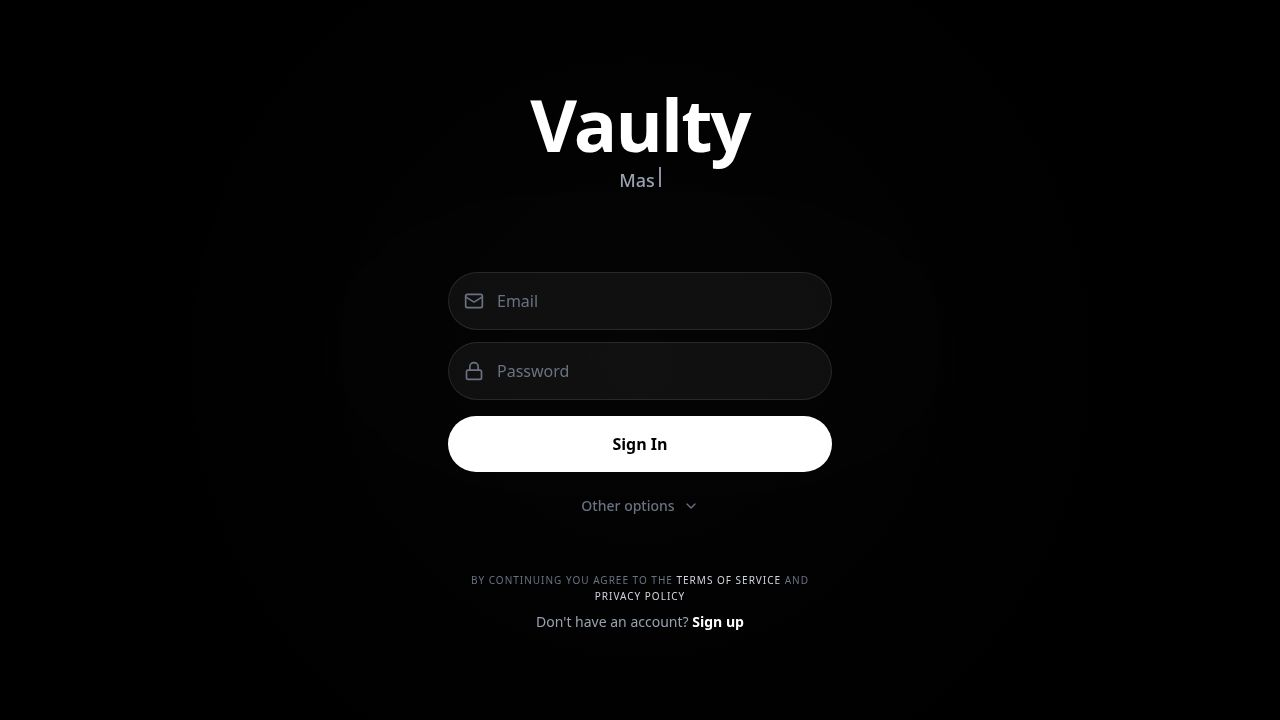
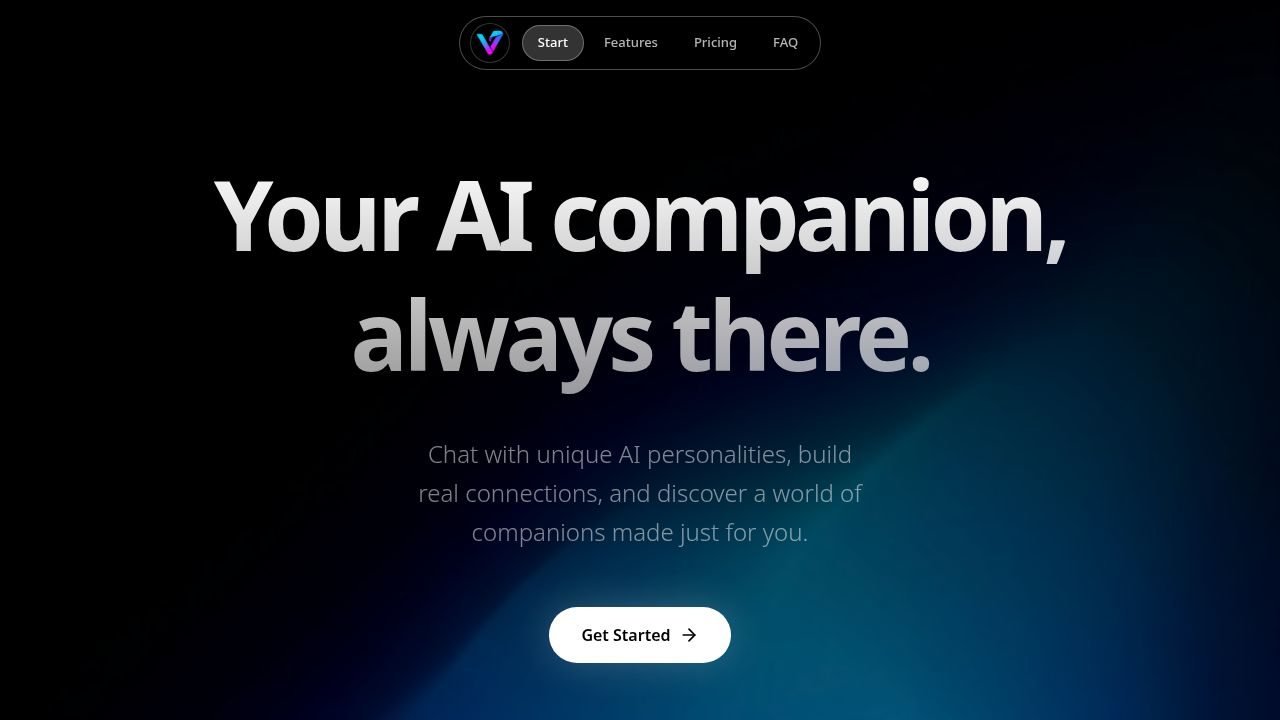
Update bottom navigation to match design and improve functionality
Modify `BottomNav` component in `artifacts/vaulty/src/components/bottom-nav.tsx` to align with design specifications, including visual appearance and active state handling. Reverts temporary testing modifications and optimizes unread count calculation.

Replit-Commit-Author: Agent
Replit-Commit-Session-Id: a13fa387-accd-4a0e-9d58-872bcc452926
Replit-Commit-Checkpoint-Type: full_checkpoint
Replit-Commit-Event-Id: 97b5bc2d-cc4e-43b1-8dbc-7ea21598766e
Replit-Commit-Screenshot-Url: https://storage.googleapis.com/screenshot-production-us-central1/109c9988-ce93-4a7c-ae48-cd2b3726c8ef/a13fa387-accd-4a0e-9d58-872bcc452926/qTRPI5u
Replit-Helium-Checkpoint-Created: true

diff --git a/artifacts/vaulty/src/components/bottom-nav.tsx b/artifacts/vaulty/src/components/bottom-nav.tsx
@@ -1,6 +1,5 @@
 import { Link, useLocation } from "wouter";
 import { Home, MessageSquare, PlusCircle, Search, Zap } from "lucide-react";
-import { cn } from "@/lib/utils";
 import { useEffect, useState, useMemo } from "react";
 import { useAuth } from "@/contexts/auth-context";
 import { motion, AnimatePresence } from "framer-motion";
@@ -10,22 +9,17 @@ import { isSuperAdmin } from "@/lib/admins";
 
 export function BottomNav() {
   const [location] = useLocation();
-  const { user, userData } = useAuth();
+  const { user } = useAuth();
   const [unreadCount, setUnreadCount] = useState(0);
-
-  const isSuper = user ? isSuperAdmin(user.email) : false;
 
   useEffect(() => {
     if (!user) { setUnreadCount(0); return; }
-
     const chatsQuery = query(
       collection(db, "chats"),
       where("participants", "array-contains", user.uid)
     );
-
     const chatsUnsubscribe = onSnapshot(chatsQuery, (chatsSnapshot) => {
       const chatUnreads: Record<string, number> = {};
-
       const unsubscribes = chatsSnapshot.docs.map(chatDoc => {
         const messagesQuery = query(
           collection(db, "chats", chatDoc.id, "messages"),
@@ -36,14 +30,11 @@ export function BottomNav() {
             msgDoc => msgDoc.data().senderId !== user.uid
           ).length;
           chatUnreads[chatDoc.id] = count;
-          const total = Object.values(chatUnreads).reduce((sum, c) => sum + c, 0);
-          setUnreadCount(total);
+          setUnreadCount(Object.values(chatUnreads).reduce((s, c) => s + c, 0));
         });
       });
-
-      return () => unsubscribes.forEach(unsub => unsub());
-    }, (error) => console.error("Error in chats listener:", error));
-
+      return () => unsubscribes.forEach(u => u());
+    });
     return () => chatsUnsubscribe();
   }, [user]);
 
@@ -56,21 +47,13 @@ export function BottomNav() {
   ], []);
 
   const shouldHide =
-    location === "/login" ||
-    location === "/register" ||
-    location === "/" ||
-    location === "/ai" ||
-    location.startsWith("/create-companion") ||
-    location.startsWith("/companion/") ||
-    location.startsWith("/messages/") ||
-    location === "/tos" ||
-    location.startsWith("/demo-trading/") ||
-    location.startsWith("/chat/private/") ||
-    location.startsWith("/course/") ||
-    location.startsWith("/coin/") ||
-    location.startsWith("/wallet") ||
-    location.startsWith("/user/") ||
-    location === "/create-post" ||
+    location === "/login" || location === "/register" || location === "/" ||
+    location === "/ai" || location.startsWith("/create-companion") ||
+    location.startsWith("/companion/") || location.startsWith("/messages/") ||
+    location === "/tos" || location.startsWith("/demo-trading/") ||
+    location.startsWith("/chat/private/") || location.startsWith("/course/") ||
+    location.startsWith("/coin/") || location.startsWith("/wallet") ||
+    location.startsWith("/user/") || location === "/create-post" ||
     location === "/create-listing";
 
   if (shouldHide) return null;
@@ -82,135 +65,171 @@ export function BottomNav() {
       transition={{ type: "spring", stiffness: 300, damping: 30 }}
       className="fixed bottom-6 left-1/2 -translate-x-1/2 z-50"
     >
-      {/* Outer glow */}
-      <div className="absolute -inset-2 rounded-full blur-2xl bg-black/30 pointer-events-none" />
+      {/* Outer wrapper — overflow visible so active bubble pokes above */}
+      <div style={{ position: "relative", paddingTop: 28 }}>
 
-      {/* Dark glass pill */}
-      <div
-        className="relative flex items-end gap-1.5 px-3 pt-5 pb-2 rounded-full"
-        style={{
-          background: "rgba(18,18,20,0.82)",
-          backdropFilter: "blur(28px)",
-          WebkitBackdropFilter: "blur(28px)",
-          border: "1px solid rgba(255,255,255,0.10)",
-          boxShadow: "0 8px 40px rgba(0,0,0,0.7), inset 0 1px 0 rgba(255,255,255,0.08)",
-        }}
-      >
-        {items.map((item) => {
-          let isActive = false;
-          if (item.href === "/home") {
-            isActive = location === "/home";
-          } else if (item.href === "/messages") {
-            isActive = location.startsWith("/messages");
-          } else {
-            isActive = location.startsWith(item.href);
-          }
+        {/* Dark glass pill */}
+        <div
+          style={{
+            display: "flex",
+            alignItems: "center",
+            gap: 6,
+            padding: "8px 10px",
+            borderRadius: 60,
+            background: "rgba(14,14,16,0.88)",
+            backdropFilter: "blur(30px)",
+            WebkitBackdropFilter: "blur(30px)",
+            border: "1px solid rgba(255,255,255,0.09)",
+            boxShadow: "0 8px 40px rgba(0,0,0,0.75), inset 0 1px 0 rgba(255,255,255,0.07)",
+          }}
+        >
+          {items.map((item) => {
+            let isActive = false;
+            if (item.href === "/home") isActive = location === "/home";
+            else if (item.href === "/messages") isActive = location.startsWith("/messages");
+            else isActive = location.startsWith(item.href);
 
-          return (
-            <Link key={item.href} href={item.href}>
-              <motion.div
-                whileTap={{ scale: 0.9 }}
-                transition={{ type: "spring", stiffness: 500, damping: 20 }}
-                className="relative flex flex-col items-center cursor-pointer"
-              >
-                {/* Item capsule */}
-                <div
-                  className="relative flex flex-col items-center justify-end"
-                  style={{ width: 64, minHeight: 52 }}
+            return (
+              <Link key={item.href} href={item.href}>
+                <motion.div
+                  whileTap={{ scale: 0.88 }}
+                  style={{ position: "relative", cursor: "pointer" }}
                 >
-                  <AnimatePresence mode="wait">
-                    {isActive ? (
-                      /* Active: large circle protruding above the bar */
+                  {/* Active: big circle that rises above the pill */}
+                  <AnimatePresence>
+                    {isActive && (
                       <motion.div
-                        key="active"
-                        initial={{ scale: 0.6, opacity: 0, y: 8 }}
+                        key="bubble"
+                        layoutId="nav-active-bubble"
+                        initial={{ scale: 0.5, opacity: 0, y: 20 }}
                         animate={{ scale: 1, opacity: 1, y: 0 }}
-                        exit={{ scale: 0.6, opacity: 0, y: 8 }}
-                        transition={{ type: "spring", stiffness: 380, damping: 26 }}
-                        className="absolute left-1/2 -translate-x-1/2"
-                        style={{ bottom: 18 }}
-                      >
-                        {/* Colorful metallic ring (conic gradient) */}
-                        <div
-                          style={{
-                            width: 64,
-                            height: 64,
-                            borderRadius: "50%",
-                            padding: 3,
-                            background: "conic-gradient(from 0deg, #a8ff3e, #00e0ff, #b400ff, #ff3a6e, #ff9900, #a8ff3e)",
-                            boxShadow: "0 0 18px rgba(168,255,62,0.45), 0 4px 24px rgba(0,0,0,0.5)",
-                          }}
-                        >
-                          {/* Inner green circle */}
-                          <div
-                            className="w-full h-full rounded-full flex items-center justify-center"
-                            style={{
-                              background: "linear-gradient(145deg, #c8ff44, #8ae600)",
-                              boxShadow: "inset 0 2px 6px rgba(255,255,255,0.35), inset 0 -2px 4px rgba(0,0,0,0.2)",
-                            }}
-                          >
-                            <item.icon
-                              className="text-black"
-                              style={{ width: 26, height: 26, strokeWidth: 2.2 }}
-                            />
-                          </div>
-                        </div>
-                      </motion.div>
-                    ) : (
-                      /* Inactive: small icon in a dark capsule */
-                      <motion.div
-                        key="inactive"
-                        initial={{ opacity: 0 }}
-                        animate={{ opacity: 1 }}
-                        exit={{ opacity: 0 }}
-                        transition={{ duration: 0.15 }}
-                        className="flex flex-col items-center justify-center rounded-full"
+                        exit={{ scale: 0.5, opacity: 0, y: 20 }}
+                        transition={{ type: "spring", stiffness: 400, damping: 28 }}
                         style={{
-                          width: 60,
-                          height: 44,
-                          background: "rgba(255,255,255,0.07)",
-                          border: "1px solid rgba(255,255,255,0.09)",
-                          marginBottom: 2,
+                          position: "absolute",
+                          left: "50%",
+                          transform: "translateX(-50%)",
+                          bottom: "calc(100% + 4px)",
+                          width: 62,
+                          height: 62,
+                          borderRadius: "50%",
+                          padding: 3,
+                          background:
+                            "conic-gradient(from 180deg, #b5ff4d, #00e5ff, #c200ff, #ff3366, #ff9500, #b5ff4d)",
+                          boxShadow:
+                            "0 0 20px rgba(181,255,77,0.4), 0 6px 30px rgba(0,0,0,0.6)",
+                          zIndex: 10,
                         }}
                       >
-                        <item.icon
-                          className="text-white/70"
-                          style={{ width: 20, height: 20, strokeWidth: 1.8 }}
-                        />
+                        {/* Lime green inner circle */}
+                        <div
+                          style={{
+                            width: "100%",
+                            height: "100%",
+                            borderRadius: "50%",
+                            background:
+                              "linear-gradient(145deg, #ccff44 0%, #96e600 100%)",
+                            boxShadow:
+                              "inset 0 2px 8px rgba(255,255,255,0.4), inset 0 -2px 6px rgba(0,0,0,0.25)",
+                            display: "flex",
+                            alignItems: "center",
+                            justifyContent: "center",
+                          }}
+                        >
+                          <item.icon
+                            style={{
+                              width: 24,
+                              height: 24,
+                              color: "#0a1200",
+                              strokeWidth: 2.2,
+                            }}
+                          />
+                        </div>
                       </motion.div>
                     )}
                   </AnimatePresence>
 
-                  {/* Spacer so active icon has room above */}
-                  {isActive && <div style={{ height: 50 }} />}
-
-                  {/* Label */}
-                  <span
-                    className="text-[10px] font-semibold tracking-wide mt-0.5 relative z-10"
+                  {/* Capsule (always rendered — the pill shape for each item) */}
+                  <div
                     style={{
-                      color: isActive ? "#c8ff44" : "rgba(255,255,255,0.55)",
-                      textShadow: isActive ? "0 0 10px rgba(168,255,62,0.6)" : "none",
-                      lineHeight: 1,
+                      width: 64,
+                      height: 52,
+                      borderRadius: 26,
+                      background: isActive
+                        ? "rgba(255,255,255,0.04)"
+                        : "rgba(255,255,255,0.07)",
+                      border: "1px solid rgba(255,255,255,0.08)",
+                      display: "flex",
+                      flexDirection: "column",
+                      alignItems: "center",
+                      justifyContent: "flex-end",
+                      paddingBottom: 7,
+                      gap: 3,
+                      position: "relative",
                     }}
                   >
-                    {item.label}
-                  </span>
+                    {/* Icon — hidden on active (replaced by floating bubble above) */}
+                    {!isActive && (
+                      <item.icon
+                        style={{
+                          width: 20,
+                          height: 20,
+                          color: "rgba(255,255,255,0.55)",
+                          strokeWidth: 1.8,
+                        }}
+                      />
+                    )}
+                    {isActive && <div style={{ height: 20 }} />}
 
-                  {/* Unread badge */}
-                  {item.href === "/messages" && unreadCount > 0 && (
-                    <motion.div
-                      initial={{ scale: 0 }}
-                      animate={{ scale: 1 }}
-                      className="absolute top-0 right-1 bg-red-500 text-white text-[8px] font-bold rounded-full w-4 h-4 flex items-center justify-center shadow-lg z-20"
+                    {/* Label */}
+                    <span
+                      style={{
+                        fontSize: 10,
+                        fontWeight: 600,
+                        letterSpacing: "0.03em",
+                        lineHeight: 1,
+                        color: isActive ? "#b5ff4d" : "rgba(255,255,255,0.5)",
+                        textShadow: isActive
+                          ? "0 0 10px rgba(181,255,77,0.55)"
+                          : "none",
+                      }}
                     >
-                      {unreadCount > 99 ? "99+" : unreadCount}
-                    </motion.div>
-                  )}
-                </div>
-              </motion.div>
-            </Link>
-          );
-        })}
+                      {item.label}
+                    </span>
+
+                    {/* Unread badge */}
+                    {item.href === "/messages" && unreadCount > 0 && (
+                      <motion.div
+                        initial={{ scale: 0 }}
+                        animate={{ scale: 1 }}
+                        style={{
+                          position: "absolute",
+                          top: 6,
+                          right: 8,
+                          background: "#ef4444",
+                          color: "#fff",
+                          fontSize: 8,
+                          fontWeight: 700,
+                          borderRadius: 99,
+                          minWidth: 16,
+                          height: 16,
+                          display: "flex",
+                          alignItems: "center",
+                          justifyContent: "center",
+                          padding: "0 3px",
+                          zIndex: 20,
+                          boxShadow: "0 2px 6px rgba(0,0,0,0.4)",
+                        }}
+                      >
+                        {unreadCount > 99 ? "99+" : unreadCount}
+                      </motion.div>
+                    )}
+                  </div>
+                </motion.div>
+              </Link>
+            );
+          })}
+        </div>
       </div>
     </motion.div>
   );